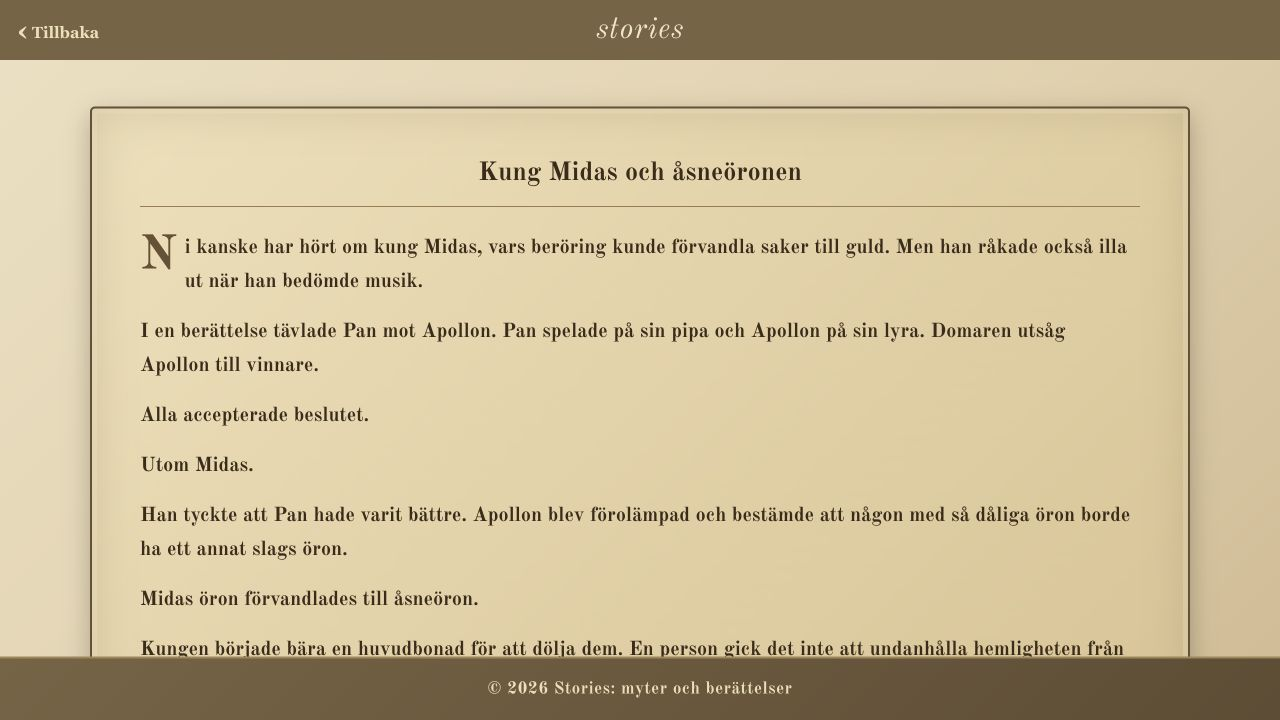
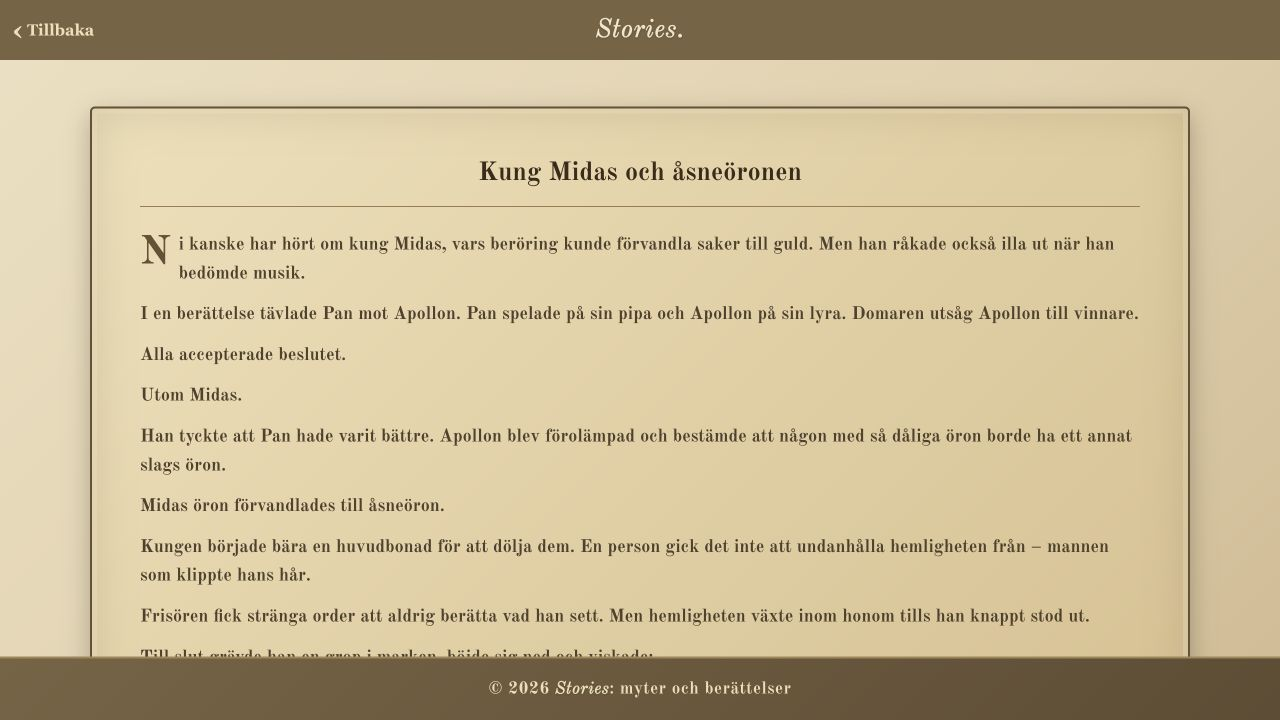
tillbakatext och pil flyttad upp lite

diff --git a/src/app.css b/src/app.css
@@ -78,6 +78,9 @@ html.md {
   min-width: 0;
 }
 .app-header .story-back {
+  display: inline-flex;
+  align-items: center;
+  gap: 4px;
   appearance: none;
   border: 0;
   background: none;
@@ -88,10 +91,12 @@ html.md {
   font:
     700 16px Georgia,
     serif;
+  line-height: 1;
 }
 .story-back span {
   font-size: 28px;
-  vertical-align: -2px;
+  line-height: 1;
+  transform: translateY(-2px);
 }
 .story-back:disabled {
   cursor: default;
@@ -230,3 +235,5 @@ main.startsida {
 .page[data-name="midas"] .pergament-text h1 + p::first-letter {
   font-size: 40px;
 }
+
+.app-header .story-back[hidden] { display: none; }
